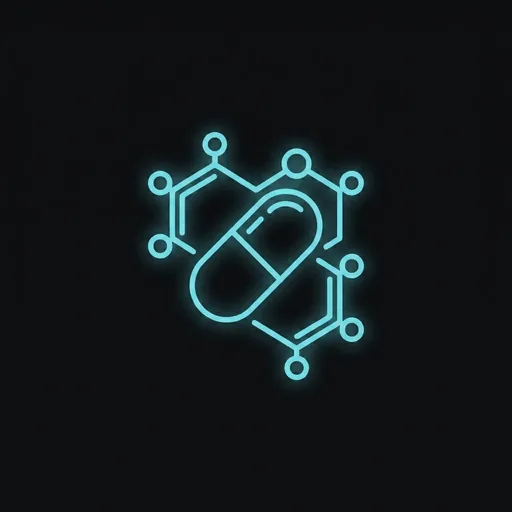
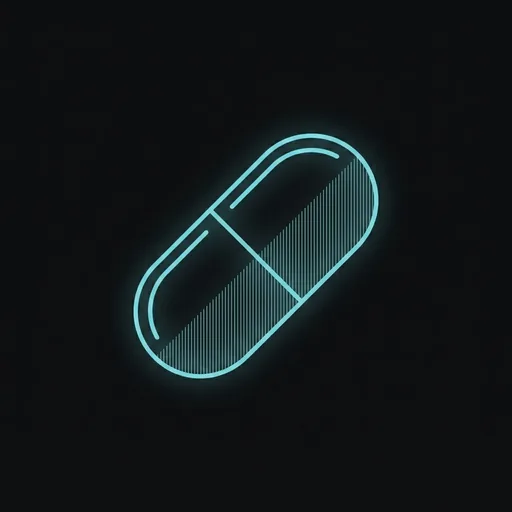
v6.99.4: ilaç sembolü sadeleşti (tek kapsül — küçükte anlam kaybı düzeltmesi) + detaylarda ham metin dökümü kalktı
Kullanıcı kararları 2026-08-16:
- ilac.webp: kapsül+molekül bileşimi karmaşıktı, 72px'te okunmuyordu → yalnız tek
  kapsül (aynı neon çizgi dili).
- Detay sayfası: akademik 'Özgün abstract' + mevzuat/sektörel/ilaç 'Resmî metinden'
  ham dökümleri KALKTI (AI özet + kaynak linki yeterli); İçtihat 'Karar metni' ve
  Doktrin 'Özet (TR-Dizin)' esas içerik oldukları için KALDI.
Doğrulama: tsc 0 · dev canlı ölçüm (abstract=0, resmî-metinden=0; karar metni ve
doktor/klinik özetleri yerinde; ilac.webp 200).

Changed region(s): [[0.25, 0.25, 0.75, 0.75]]

diff --git a/src/app/doktor/doctorium/[id]/page.tsx b/src/app/doktor/doctorium/[id]/page.tsx
@@ -236,14 +236,19 @@ export default async function DoctoriumArticlePage({ params }: { params: Promise
         </p>
       )}
 
-      {item.summary && (
+      {/* Ham metin dökümü YALNIZ esas içeriğin kendisi olduğu türlerde (v6.99.3, kullanıcı
+          kararı 2026-08-16): İçtihat'ta karar metni, Doktrin'de dizin özeti başka yerde YOK —
+          kalırlar. Akademikteki "Özgün abstract" ve mevzuat/sektörel/ilaçtaki "Resmî metinden"
+          KALDIRILDI: AI özet (klinik özet / doktor özeti) + kaynak linki yeterli; ham döküm
+          sayfayı kalabalıklaştırıyordu. Abstract/resmî metin isteyen "Kaynağa git" ile gider. */}
+      {item.summary && (isIctihat || isDoktrin) && (
         <section className="mt-6">
           <h2 className="text-[11px] font-semibold uppercase tracking-wide text-[var(--c-ink-3)]">
-            {isAcademic ? "Özgün abstract" : isIctihat ? "Karar metni" : isDoktrin ? "Özet (TR-Dizin)" : "Resmî metinden"}
+            {isIctihat ? "Karar metni" : "Özet (TR-Dizin)"}
           </h2>
           <p className="mt-2 whitespace-pre-line text-sm leading-relaxed text-[var(--c-ink-2)]">
             {/* İçtihat: hukuki metin kesilmez (karar bütünlüğü); Doktrin özeti zaten kısa. */}
-            {isAcademic || isIctihat || isDoktrin ? item.summary : item.summary.slice(0, 2500)}
+            {item.summary}
           </p>
         </section>
       )}
